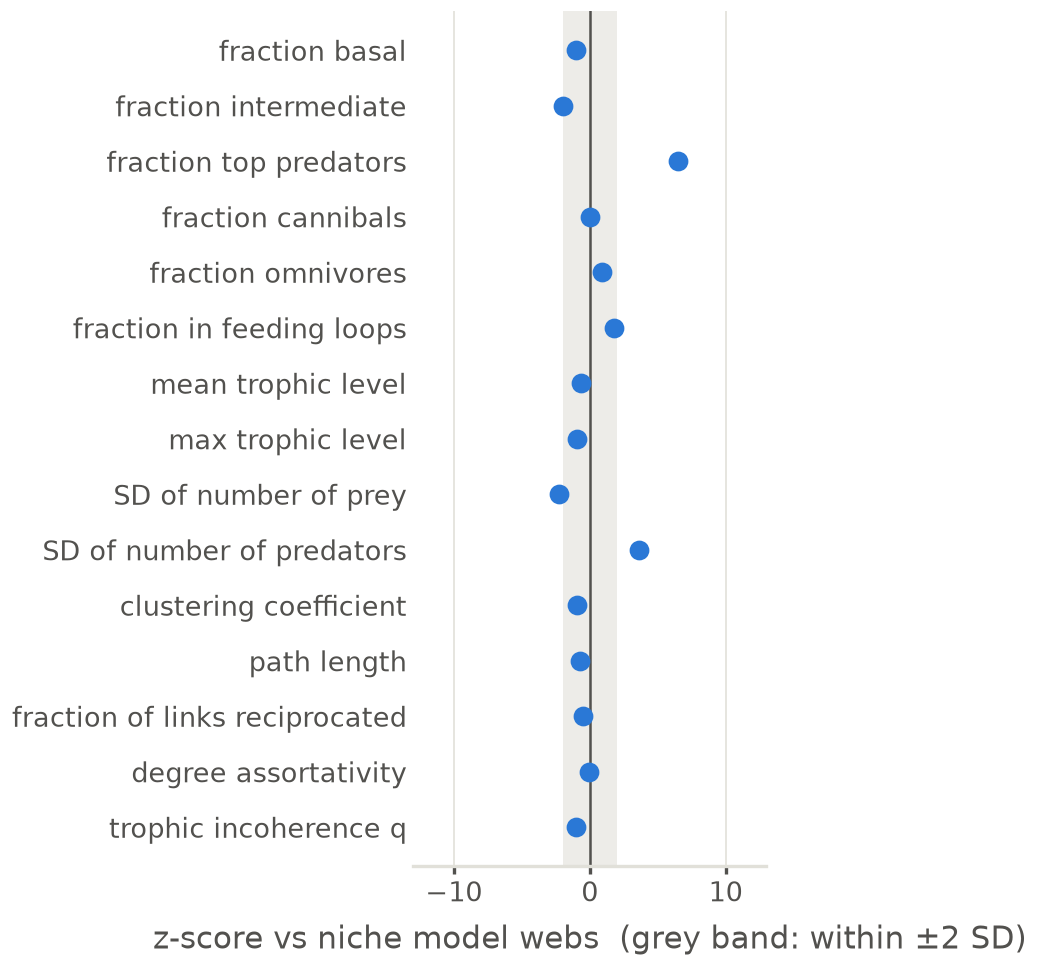
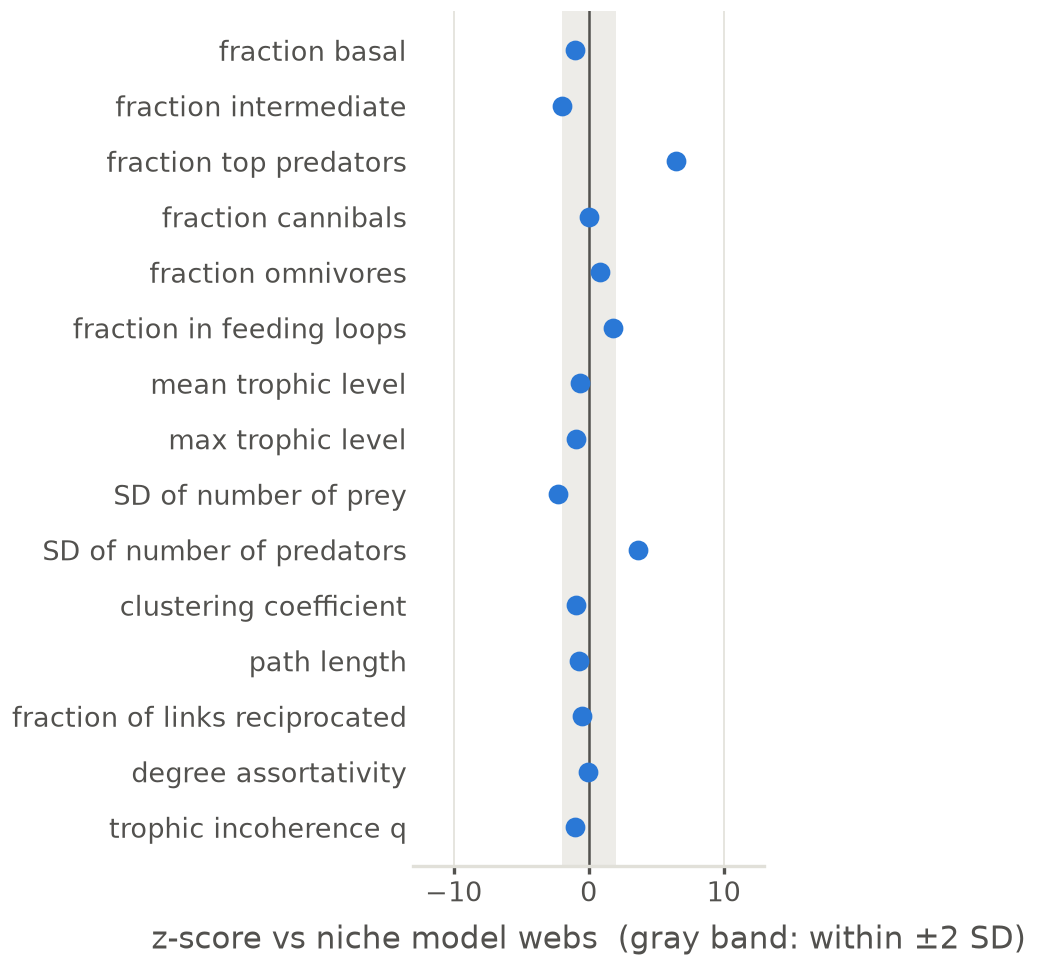
gray not grey in figures and notes

diff --git a/code/write_docs.py b/code/write_docs.py
@@ -68,7 +68,7 @@ EXPLAIN = {
     "tl_vs_n_prey": "Number of prey (in-degree) against trophic level for the 40 consumer groups, with a Spearman ρ of +0.75 (p = 2.9 × 10⁻⁸). The relationship is clearly positive, as the groups near the top (Sharks with 25 prey, Demersal piscivores with 23, and Adult hake with 21) eat far more kinds of prey than the ones near the bottom. This is the figure that tests our hypothesis directly, since we predicted upper-level consumers would show greater diet diversity than primary producers and low-level consumers. The three basal groups are left out, as they have no prey by definition and would only sit tied at the bottom of both rankings and push ρ up without adding anything.",
     "tl_vs_n_predators": "The same plot for number of predators (out-degree), again over the 40 consumers, with ρ = −0.65 (p = 4.7 × 10⁻⁶). Here the trend runs the other way, as groups low in the web like Shrimps (27 predators), Benthic cephalopods (24), and Macrozooplankton (24) are eaten by a lot of things, while the groups at the top have few predators or none at all. It is worth putting next to the previous figure, though, because on its own total degree against trophic level gives ρ = −0.07 (p = 0.67), which looks like there is no relationship at all. What is actually happening is that these two strong relationships are cancelling each other out, so the answer depends entirely on which kind of connectedness you measure.",
     "single_group_knockouts": "Secondary extinctions caused by removing each group on its own. Only 4 of the 43 groups cause any at all, and all four sit at the bottom of the web: Detritus, Phytoplankton, Meso and microzooplankton, and Macrozooplankton. Blue is the strict rule, where a consumer only dies once it has lost all of its prey, and orange is the weighted rule, where it dies once half its diet is gone. The gap between the two is large (removing Detritus costs 1 group under the strict rule and 33 under the half-diet rule), which is the point of including it, as it shows how much the extinction rule drives everything that follows. No single removal splits the web, so all of this is starvation and not fragmentation.",
-    "robustness_all_prey_rule_trophic_position": "The fraction of living groups lost as groups are removed one at a time, comparing removal from the bottom of the web upward, from the top downward, and 1000 random orders (the grey band). Removing the lowest trophic levels first does more damage than random (R50 = 0.39 against 0.48), while removing the highest trophic levels first sits right on the diagonal at 0.51, which is the maximum possible and means no secondary extinctions happen at all. So the web is very asymmetric, as losses at the base cascade upward and losses at the top cascade nowhere. It is worth saying in the text, though, that some of this is built into the rule, since our extinction rule only works bottom-up and cannot produce predator release.",
+    "robustness_all_prey_rule_trophic_position": "The fraction of living groups lost as groups are removed one at a time, comparing removal from the bottom of the web upward, from the top downward, and 1000 random orders (the gray band). Removing the lowest trophic levels first does more damage than random (R50 = 0.39 against 0.48), while removing the highest trophic levels first sits right on the diagonal at 0.51, which is the maximum possible and means no secondary extinctions happen at all. So the web is very asymmetric, as losses at the base cascade upward and losses at the top cascade nowhere. It is worth saying in the text, though, that some of this is built into the rule, since our extinction rule only works bottom-up and cannot produce predator release.",
     "r50_summary": "R50, the fraction of groups removed before half the living groups are lost, under both extinction rules. Lower means more fragile. Going after the most important prey (0.39) brings the web down faster than random order (0.48), while going after the most connected groups (0.44) or the highest betweenness (0.49) does not.",
     "link_robustness_all_prey_rule_strength": "The link version of the targeted-versus-random comparison, cutting feeding links one at a time instead of removing whole groups. Cutting the strongest links first collapses the web after 57% of links are gone, random order takes 72%, and cutting the weakest links first takes 92% and produces no extinctions at all until roughly 82% of the links have been cut. So which links are cut matters a lot more than how many, and that is the clearest argument we have for treating the network as weighted rather than binary. A binary analysis would have no way of telling these three curves apart.",
     "l50_summary": "L50, the fraction of links cut before half the living groups are lost, under both rules. Cutting the highest edge betweenness links first does more damage than random order (0.38 against 0.72), while cutting the weakest links first is the least damaging at 0.92."
@@ -409,7 +409,7 @@ DESC = {
         "omnivory_index_histogram": "Omnivory index of each group.",
         "diet_diversity_histogram": "Diet diversity (effective number of prey) of each consumer."}),
     "03_structure": ("Structure against null models", {
-        "vs_random_er": "z-score of each whole-web measure against random (ER) webs; the grey band is ±2 SD.",
+        "vs_random_er": "z-score of each whole-web measure against random (ER) webs; the gray band is ±2 SD.",
         "vs_degree_preserving": "z-scores against degree-preserving rewired webs.",
         "vs_niche_model": "z-scores against niche-model webs."}),
     "04_centrality": ("Centrality against trophic level", {}),
@@ -447,7 +447,7 @@ def describe(folder, stem):
             rest = stem[len(prefix):]
             rule = "all-prey rule" if rest.startswith("all_prey_rule") else "half-diet rule"
             tag = rest.split("_rule_", 1)[1]
-            return f"{what}: {PAIR_TEXT.get(tag, tag)}, {rule}; grey = random orders."
+            return f"{what}: {PAIR_TEXT.get(tag, tag)}, {rule}; gray = random orders."
     return ""
 
 def preview(p):

diff --git a/code/network_structure.py b/code/network_structure.py
@@ -232,7 +232,7 @@ for model, stem in (("random (ER)", "vs_random_er"), ("degree-preserving", "vs_d
                     va="center", fontsize=6.5, color=INK2)
     ax.set_yticks(y, [NICE.get(m, m) for m in d.measure])
     ax.set_xlim(-LIMIT - 1, LIMIT + 1)
-    ax.set_xlabel(f"z-score vs {model} webs  (grey band: within ±2 SD)")
+    ax.set_xlabel(f"z-score vs {model} webs  (gray band: within ±2 SD)")
     tidy(ax, "x")
     ax.tick_params(axis="y", length=0)
     ax.spines["left"].set_visible(False)

diff --git a/figures/05_node_removal/README.md b/figures/05_node_removal/README.md
@@ -10,16 +10,16 @@ Generated by `code/write_docs.py`. The figures are drawn by the code, so if one 
 | [`giant_component_with_extinctions`](giant_component_with_extinctions.png) · [pdf](giant_component_with_extinctions.pdf) | The same with secondary extinctions (all-prey rule). |
 | [`guild_removal`](guild_removal.png) · [pdf](guild_removal.pdf) | Secondary extinctions after removing a whole guild. |
 | ★ [`r50_summary`](r50_summary.png) · [pdf](r50_summary.pdf) | R50 for random order and three targeted orders, under both rules, with the 95% range of random orders. Every order is in `cadiz_node_robustness_summary.csv`. **Paper figure 8.** Targeting the most important prey beats random order; targeting degree or betweenness does not. |
-| [`robustness_all_prey_rule_connectivity`](robustness_all_prey_rule_connectivity.png) · [pdf](robustness_all_prey_rule_connectivity.pdf) | Fraction of living groups lost as groups are removed: most vs least connected first, all-prey rule; grey = random orders. |
-| [`robustness_all_prey_rule_importance`](robustness_all_prey_rule_importance.png) · [pdf](robustness_all_prey_rule_importance.pdf) | Fraction of living groups lost as groups are removed: most important prey vs PageRank importance first, all-prey rule; grey = random orders. |
-| [`robustness_all_prey_rule_recalculated_betweenness`](robustness_all_prey_rule_recalculated_betweenness.png) · [pdf](robustness_all_prey_rule_recalculated_betweenness.pdf) | Fraction of living groups lost as groups are removed: highest betweenness first, static vs recalculated, all-prey rule; grey = random orders. |
-| [`robustness_all_prey_rule_recalculated_degree`](robustness_all_prey_rule_recalculated_degree.png) · [pdf](robustness_all_prey_rule_recalculated_degree.pdf) | Fraction of living groups lost as groups are removed: most connected first, static vs recalculated, all-prey rule; grey = random orders. |
-| ★ [`robustness_all_prey_rule_trophic_position`](robustness_all_prey_rule_trophic_position.png) · [pdf](robustness_all_prey_rule_trophic_position.pdf) | Fraction of living groups lost as groups are removed: by trophic position, all-prey rule; grey = random orders. **Paper figure 7.** Targeted vs random, groups: removing from the bottom beats random (R50 0.39 vs 0.48) while removing top predators first does nothing (0.51, the maximum). |
-| [`robustness_half_diet_rule_connectivity`](robustness_half_diet_rule_connectivity.png) · [pdf](robustness_half_diet_rule_connectivity.pdf) | Fraction of living groups lost as groups are removed: most vs least connected first, half-diet rule; grey = random orders. |
-| [`robustness_half_diet_rule_importance`](robustness_half_diet_rule_importance.png) · [pdf](robustness_half_diet_rule_importance.pdf) | Fraction of living groups lost as groups are removed: most important prey vs PageRank importance first, half-diet rule; grey = random orders. |
-| [`robustness_half_diet_rule_recalculated_betweenness`](robustness_half_diet_rule_recalculated_betweenness.png) · [pdf](robustness_half_diet_rule_recalculated_betweenness.pdf) | Fraction of living groups lost as groups are removed: highest betweenness first, static vs recalculated, half-diet rule; grey = random orders. |
-| [`robustness_half_diet_rule_recalculated_degree`](robustness_half_diet_rule_recalculated_degree.png) · [pdf](robustness_half_diet_rule_recalculated_degree.pdf) | Fraction of living groups lost as groups are removed: most connected first, static vs recalculated, half-diet rule; grey = random orders. |
-| [`robustness_half_diet_rule_trophic_position`](robustness_half_diet_rule_trophic_position.png) · [pdf](robustness_half_diet_rule_trophic_position.pdf) | Fraction of living groups lost as groups are removed: by trophic position, half-diet rule; grey = random orders. |
+| [`robustness_all_prey_rule_connectivity`](robustness_all_prey_rule_connectivity.png) · [pdf](robustness_all_prey_rule_connectivity.pdf) | Fraction of living groups lost as groups are removed: most vs least connected first, all-prey rule; gray = random orders. |
+| [`robustness_all_prey_rule_importance`](robustness_all_prey_rule_importance.png) · [pdf](robustness_all_prey_rule_importance.pdf) | Fraction of living groups lost as groups are removed: most important prey vs PageRank importance first, all-prey rule; gray = random orders. |
+| [`robustness_all_prey_rule_recalculated_betweenness`](robustness_all_prey_rule_recalculated_betweenness.png) · [pdf](robustness_all_prey_rule_recalculated_betweenness.pdf) | Fraction of living groups lost as groups are removed: highest betweenness first, static vs recalculated, all-prey rule; gray = random orders. |
+| [`robustness_all_prey_rule_recalculated_degree`](robustness_all_prey_rule_recalculated_degree.png) · [pdf](robustness_all_prey_rule_recalculated_degree.pdf) | Fraction of living groups lost as groups are removed: most connected first, static vs recalculated, all-prey rule; gray = random orders. |
+| ★ [`robustness_all_prey_rule_trophic_position`](robustness_all_prey_rule_trophic_position.png) · [pdf](robustness_all_prey_rule_trophic_position.pdf) | Fraction of living groups lost as groups are removed: by trophic position, all-prey rule; gray = random orders. **Paper figure 7.** Targeted vs random, groups: removing from the bottom beats random (R50 0.39 vs 0.48) while removing top predators first does nothing (0.51, the maximum). |
+| [`robustness_half_diet_rule_connectivity`](robustness_half_diet_rule_connectivity.png) · [pdf](robustness_half_diet_rule_connectivity.pdf) | Fraction of living groups lost as groups are removed: most vs least connected first, half-diet rule; gray = random orders. |
+| [`robustness_half_diet_rule_importance`](robustness_half_diet_rule_importance.png) · [pdf](robustness_half_diet_rule_importance.pdf) | Fraction of living groups lost as groups are removed: most important prey vs PageRank importance first, half-diet rule; gray = random orders. |
+| [`robustness_half_diet_rule_recalculated_betweenness`](robustness_half_diet_rule_recalculated_betweenness.png) · [pdf](robustness_half_diet_rule_recalculated_betweenness.pdf) | Fraction of living groups lost as groups are removed: highest betweenness first, static vs recalculated, half-diet rule; gray = random orders. |
+| [`robustness_half_diet_rule_recalculated_degree`](robustness_half_diet_rule_recalculated_degree.png) · [pdf](robustness_half_diet_rule_recalculated_degree.pdf) | Fraction of living groups lost as groups are removed: most connected first, static vs recalculated, half-diet rule; gray = random orders. |
+| [`robustness_half_diet_rule_trophic_position`](robustness_half_diet_rule_trophic_position.png) · [pdf](robustness_half_diet_rule_trophic_position.pdf) | Fraction of living groups lost as groups are removed: by trophic position, half-diet rule; gray = random orders. |
 | ★ [`single_group_knockouts`](single_group_knockouts.png) · [pdf](single_group_knockouts.pdf) | Secondary extinctions after removing each group alone; only groups whose loss causes any are shown. **Paper figure 6.** Only 4 of 43 groups cause any secondary extinction on their own, and all four are at the bottom of the web. |
 
 ### giant_component_removal_only
@@ -60,7 +60,7 @@ R50, the fraction of groups removed before half the living groups are lost, unde
 
 ![robustness_all_prey_rule_trophic_position](robustness_all_prey_rule_trophic_position.png)
 
-The fraction of living groups lost as groups are removed one at a time, comparing removal from the bottom of the web upward, from the top downward, and 1000 random orders (the grey band). Removing the lowest trophic levels first does more damage than random (R50 = 0.39 against 0.48), while removing the highest trophic levels first sits right on the diagonal at 0.51, which is the maximum possible and means no secondary extinctions happen at all. So the web is very asymmetric, as losses at the base cascade upward and losses at the top cascade nowhere. It is worth saying in the text, though, that some of this is built into the rule, since our extinction rule only works bottom-up and cannot produce predator release.
+The fraction of living groups lost as groups are removed one at a time, comparing removal from the bottom of the web upward, from the top downward, and 1000 random orders (the gray band). Removing the lowest trophic levels first does more damage than random (R50 = 0.39 against 0.48), while removing the highest trophic levels first sits right on the diagonal at 0.51, which is the maximum possible and means no secondary extinctions happen at all. So the web is very asymmetric, as losses at the base cascade upward and losses at the top cascade nowhere. It is worth saying in the text, though, that some of this is built into the rule, since our extinction rule only works bottom-up and cannot produce predator release.
 
 ### robustness_half_diet_rule_connectivity
 

diff --git a/figures/06_edge_removal/README.md b/figures/06_edge_removal/README.md
@@ -11,12 +11,12 @@ Generated by `code/write_docs.py`. The figures are drawn by the code, so if one 
 | [`giant_component_links_cut_only`](giant_component_links_cut_only.png) · [pdf](giant_component_links_cut_only.pdf) | Largest connected component as links are cut, without starvation (bond percolation). |
 | [`giant_component_links_with_extinctions`](giant_component_links_with_extinctions.png) · [pdf](giant_component_links_with_extinctions.pdf) | The same with starvation (all-prey rule). |
 | ★ [`l50_summary`](l50_summary.png) · [pdf](l50_summary.pdf) | L50 for random order, edge betweenness and weakest-links-first, under both rules, with the 95% range of random orders. Every order is in `cadiz_link_robustness_summary.csv`. **Paper figure 10.** Cutting by edge betweenness beats random order; cutting the weakest links first is the least damaging. |
-| [`link_robustness_all_prey_rule_betweenness`](link_robustness_all_prey_rule_betweenness.png) · [pdf](link_robustness_all_prey_rule_betweenness.pdf) | Fraction of living groups lost as links are cut: highest edge betweenness first, static vs recalculated, all-prey rule; grey = random orders. |
-| ★ [`link_robustness_all_prey_rule_strength`](link_robustness_all_prey_rule_strength.png) · [pdf](link_robustness_all_prey_rule_strength.pdf) | Fraction of living groups lost as links are cut: strongest vs weakest links first, all-prey rule; grey = random orders. **Paper figure 9.** Targeted vs random, links: strongest first (L50 0.57) vs weakest first (0.92) vs random (0.72). |
-| [`link_robustness_all_prey_rule_trophic_position`](link_robustness_all_prey_rule_trophic_position.png) · [pdf](link_robustness_all_prey_rule_trophic_position.pdf) | Fraction of living groups lost as links are cut: by trophic position, all-prey rule; grey = random orders. |
-| [`link_robustness_half_diet_rule_betweenness`](link_robustness_half_diet_rule_betweenness.png) · [pdf](link_robustness_half_diet_rule_betweenness.pdf) | Fraction of living groups lost as links are cut: highest edge betweenness first, static vs recalculated, half-diet rule; grey = random orders. |
-| [`link_robustness_half_diet_rule_strength`](link_robustness_half_diet_rule_strength.png) · [pdf](link_robustness_half_diet_rule_strength.pdf) | Fraction of living groups lost as links are cut: strongest vs weakest links first, half-diet rule; grey = random orders. |
-| [`link_robustness_half_diet_rule_trophic_position`](link_robustness_half_diet_rule_trophic_position.png) · [pdf](link_robustness_half_diet_rule_trophic_position.pdf) | Fraction of living groups lost as links are cut: by trophic position, half-diet rule; grey = random orders. |
+| [`link_robustness_all_prey_rule_betweenness`](link_robustness_all_prey_rule_betweenness.png) · [pdf](link_robustness_all_prey_rule_betweenness.pdf) | Fraction of living groups lost as links are cut: highest edge betweenness first, static vs recalculated, all-prey rule; gray = random orders. |
+| ★ [`link_robustness_all_prey_rule_strength`](link_robustness_all_prey_rule_strength.png) · [pdf](link_robustness_all_prey_rule_strength.pdf) | Fraction of living groups lost as links are cut: strongest vs weakest links first, all-prey rule; gray = random orders. **Paper figure 9.** Targeted vs random, links: strongest first (L50 0.57) vs weakest first (0.92) vs random (0.72). |
+| [`link_robustness_all_prey_rule_trophic_position`](link_robustness_all_prey_rule_trophic_position.png) · [pdf](link_robustness_all_prey_rule_trophic_position.pdf) | Fraction of living groups lost as links are cut: by trophic position, all-prey rule; gray = random orders. |
+| [`link_robustness_half_diet_rule_betweenness`](link_robustness_half_diet_rule_betweenness.png) · [pdf](link_robustness_half_diet_rule_betweenness.pdf) | Fraction of living groups lost as links are cut: highest edge betweenness first, static vs recalculated, half-diet rule; gray = random orders. |
+| [`link_robustness_half_diet_rule_strength`](link_robustness_half_diet_rule_strength.png) · [pdf](link_robustness_half_diet_rule_strength.pdf) | Fraction of living groups lost as links are cut: strongest vs weakest links first, half-diet rule; gray = random orders. |
+| [`link_robustness_half_diet_rule_trophic_position`](link_robustness_half_diet_rule_trophic_position.png) · [pdf](link_robustness_half_diet_rule_trophic_position.pdf) | Fraction of living groups lost as links are cut: by trophic position, half-diet rule; gray = random orders. |
 
 ### critical_single_links
 

diff --git a/figures/03_structure/README.md b/figures/03_structure/README.md
@@ -6,7 +6,7 @@ Generated by `code/write_docs.py`. The figures are drawn by the code, so if one 
 |---|---|
 | [`vs_degree_preserving`](vs_degree_preserving.png) · [pdf](vs_degree_preserving.pdf) | z-scores against degree-preserving rewired webs. |
 | [`vs_niche_model`](vs_niche_model.png) · [pdf](vs_niche_model.pdf) | z-scores against niche-model webs. |
-| [`vs_random_er`](vs_random_er.png) · [pdf](vs_random_er.pdf) | z-score of each whole-web measure against random (ER) webs; the grey band is ±2 SD. |
+| [`vs_random_er`](vs_random_er.png) · [pdf](vs_random_er.pdf) | z-score of each whole-web measure against random (ER) webs; the gray band is ±2 SD. |
 
 ### vs_degree_preserving
 
